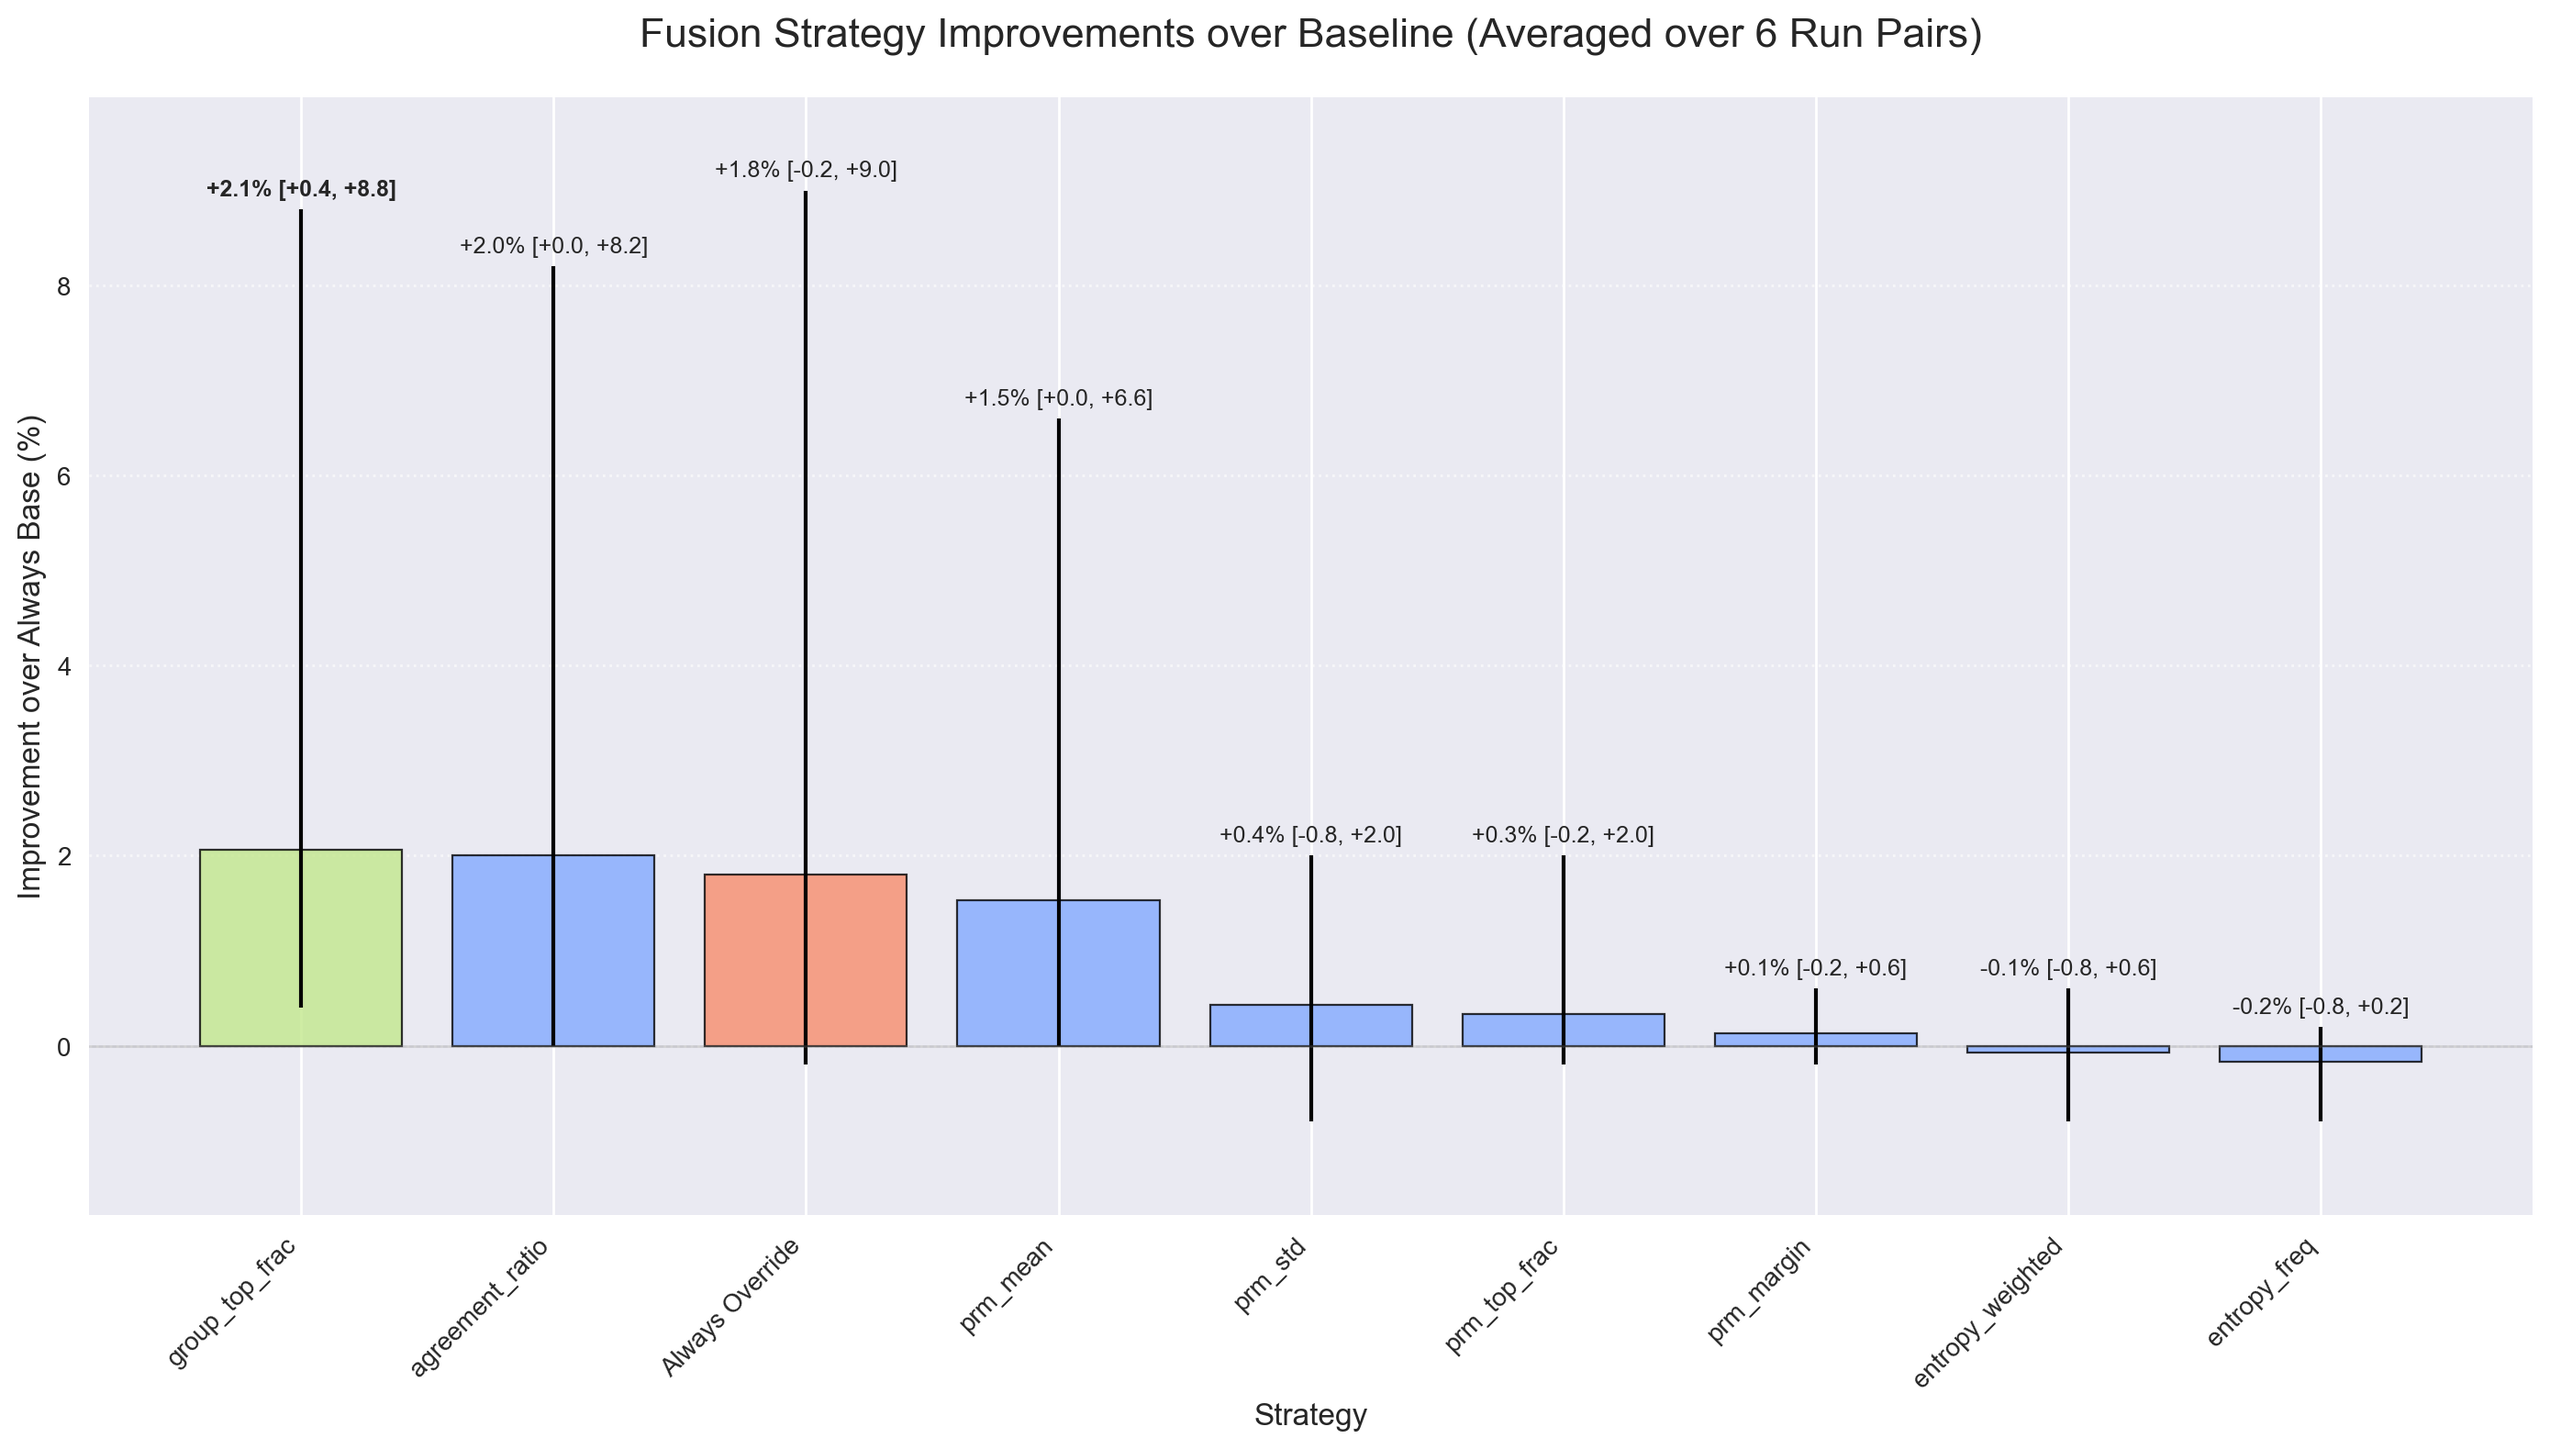
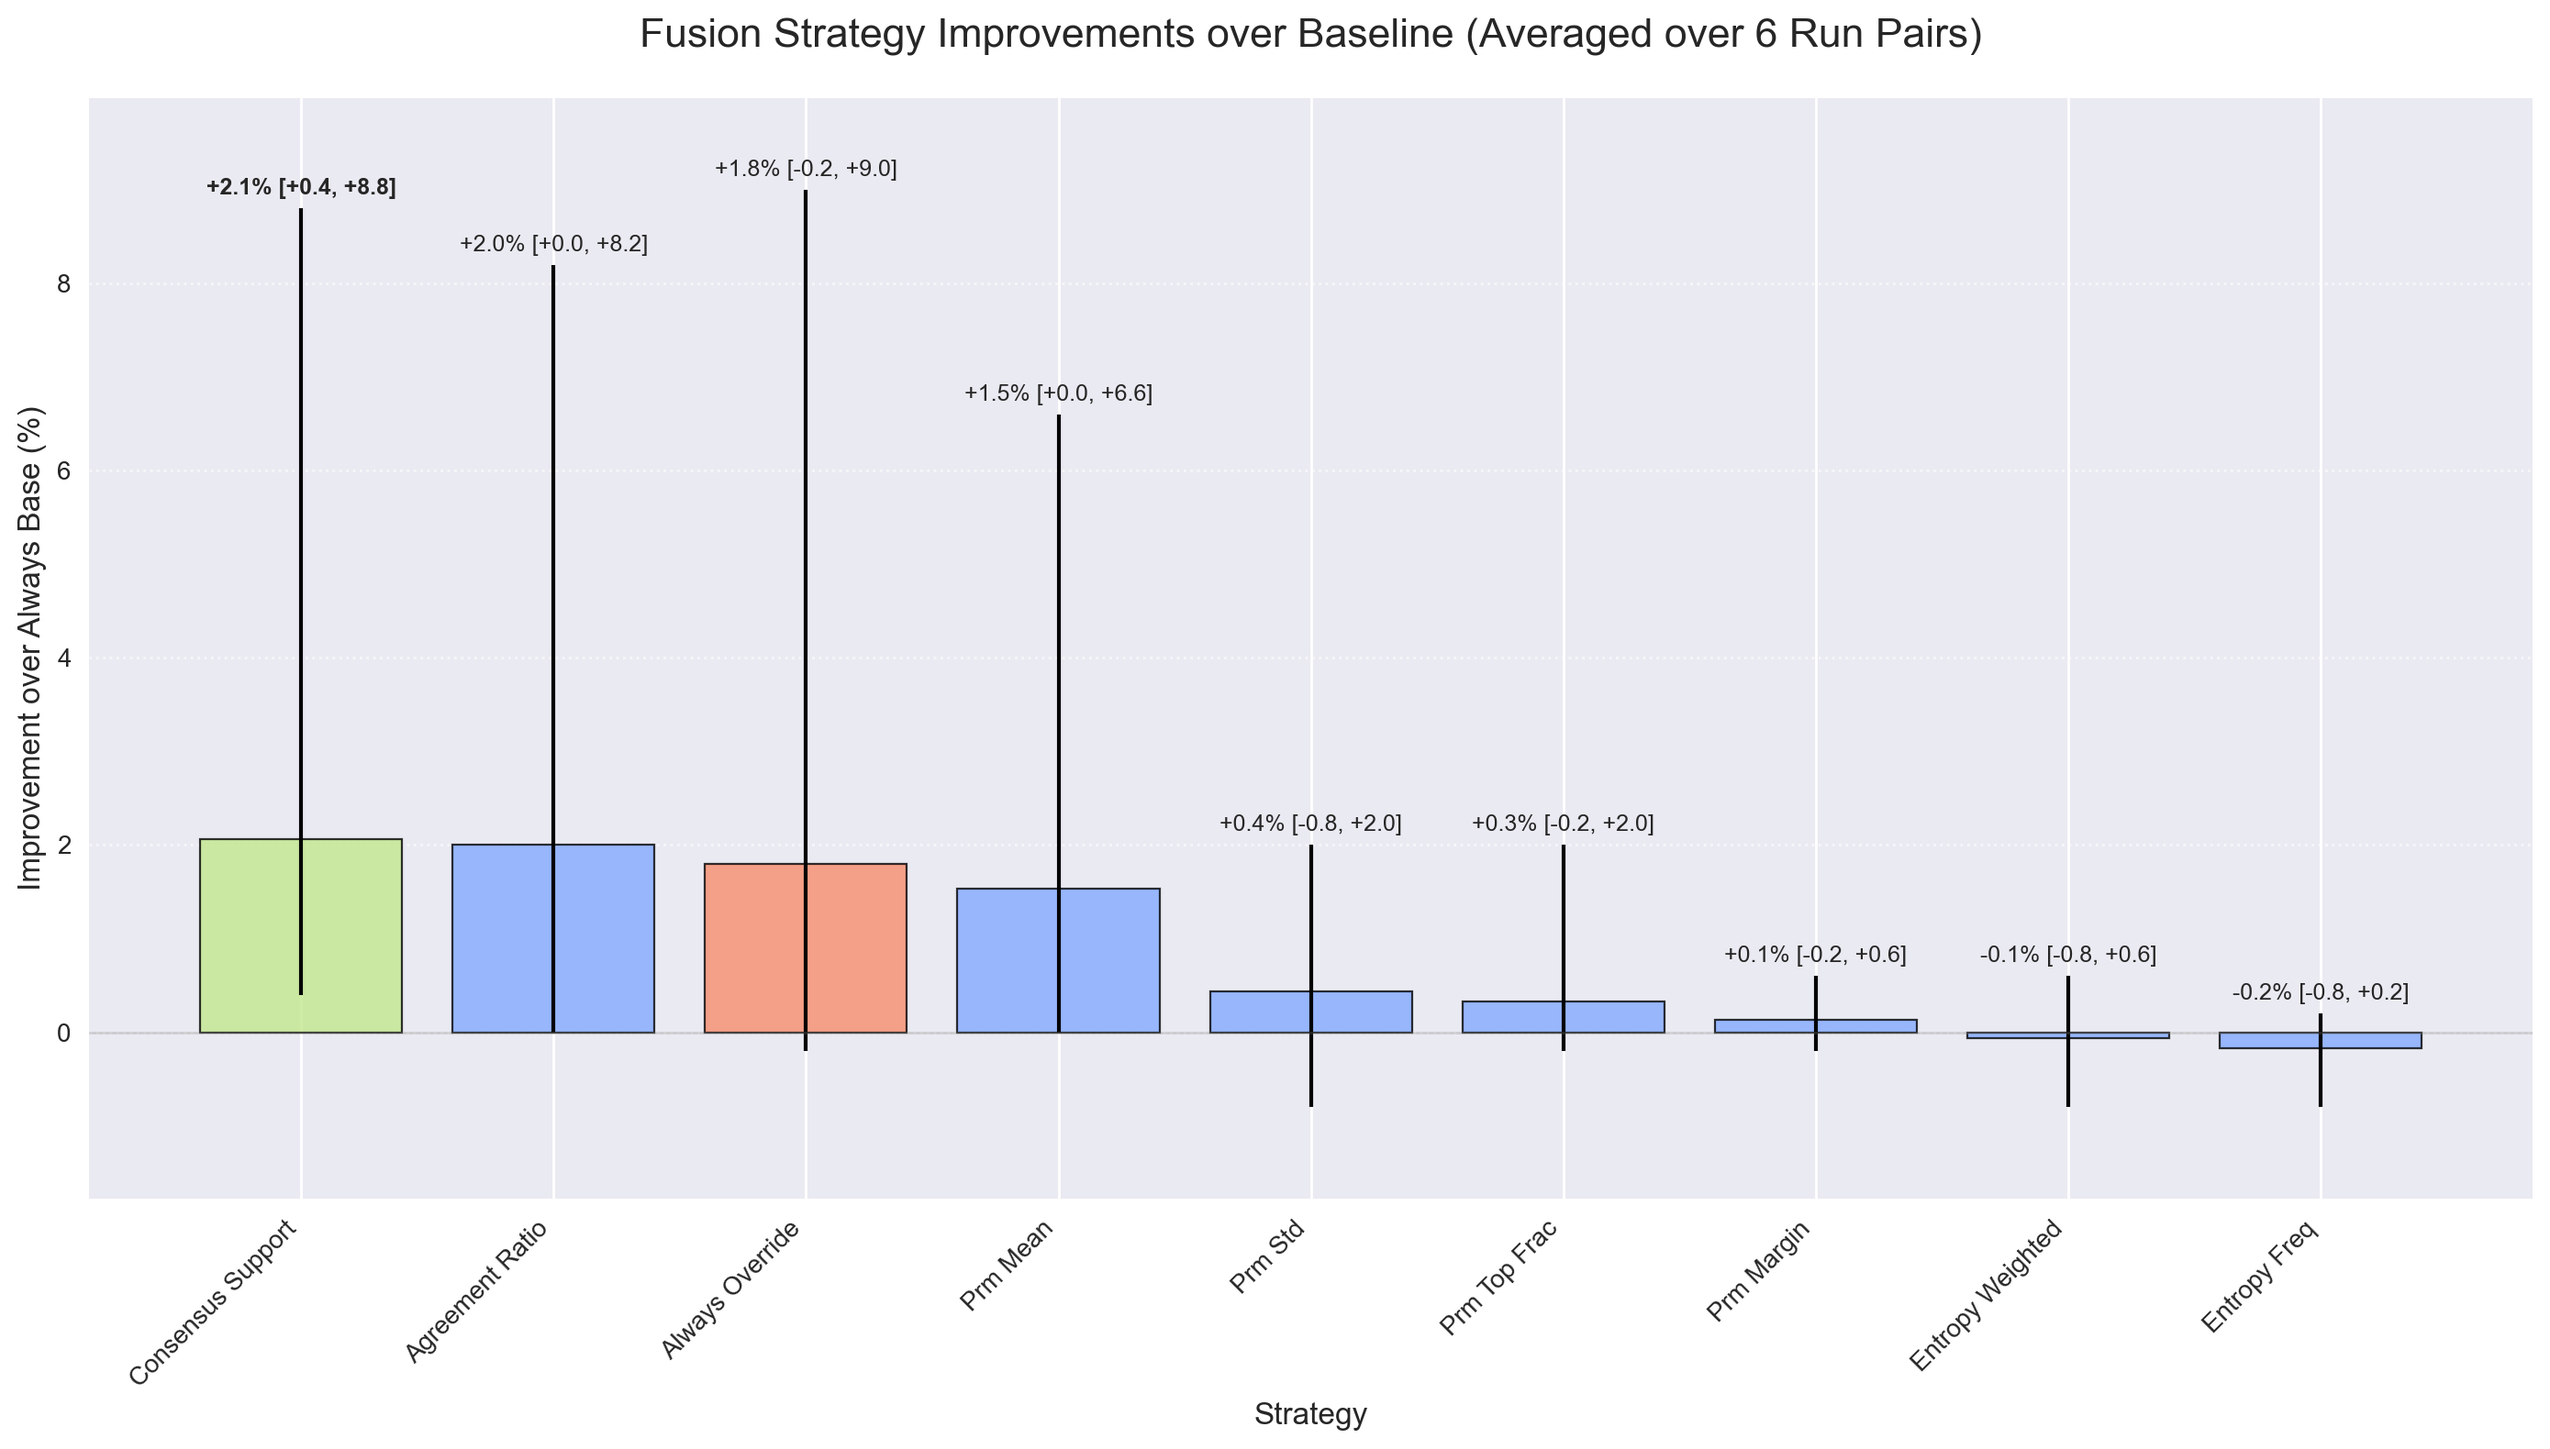
i dont even know

diff --git a/scripts/fusion/quick_analysis.py b/scripts/fusion/quick_analysis.py
@@ -43,6 +43,7 @@ def create_comparison_chart(results_summary: Dict[str, Any], output_dir: Path) -
 
     # Prepare data for smart fusion bars
     metrics = [r["metric"] for r in all_smart]
+    formatted_metrics = [metric.replace("_", " ").title() for metric in metrics]
     accuracies = [r["accuracy"] for r in all_smart]
 
     # Color bars: green for best, blue for others (using custom colors)
@@ -107,7 +108,7 @@ def create_comparison_chart(results_summary: Dict[str, Any], output_dir: Path) -
     ax.set_xlabel("Confidence Metric", fontsize=12)
     ax.set_ylabel("Accuracy (%)", fontsize=12)
     ax.set_xticks(range(len(metrics)))
-    ax.set_xticklabels(metrics, rotation=45, ha="right")
+    ax.set_xticklabels(formatted_metrics, rotation=45, ha="right")
     ax.set_ylim(0, max(accuracies) * 1.15)
     ax.grid(axis="y", linestyle=":", alpha=0.6)
 
@@ -167,6 +168,11 @@ def create_averaged_comparison_chart(
 
     # Extract sorted data
     metrics = [s["name"] for s in all_strategies]
+    # Format metric names nicely, but keep "Always Override" as is
+    formatted_metrics = [
+        metric.replace("_", " ").title() if metric != "Always Override" else metric
+        for metric in metrics
+    ]
     improvements = [s["improvement"] for s in all_strategies]
 
     # Color bars based on strategy type and performance
@@ -246,7 +252,7 @@ def create_averaged_comparison_chart(
     ax.set_xlabel("Strategy", fontsize=12)
     ax.set_ylabel("Improvement over Always Base (%)", fontsize=12)
     ax.set_xticks(range(len(metrics)))
-    ax.set_xticklabels(metrics, rotation=45, ha="right")
+    ax.set_xticklabels(formatted_metrics, rotation=45, ha="right")
 
     # Set y-limits to focus on improvement range with min/max error bars
     all_mins = [s["min"] for s in all_strategies]

diff --git a/src/sal_experiments/fusion/fusion_v2.py b/src/sal_experiments/fusion/fusion_v2.py
@@ -6,20 +6,12 @@ from dataclasses import dataclass
 from pathlib import Path
 from typing import Any, Dict, Iterable, List, Set
 
-try:
-    import numpy as np
-except ImportError:
-    np = None
-
-try:
-    from scipy import stats
-except ImportError:
-    stats = None
-
+import numpy as np
 from rich import box
 from rich.console import Console
 from rich.panel import Panel
 from rich.table import Table
+from scipy import stats
 from tqdm import tqdm
 
 from .fusion import (
